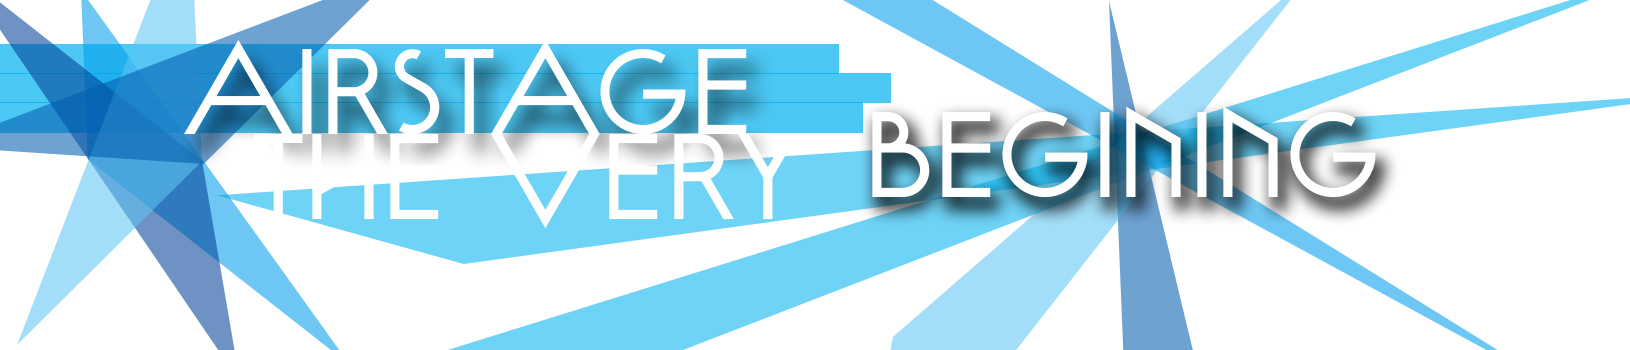
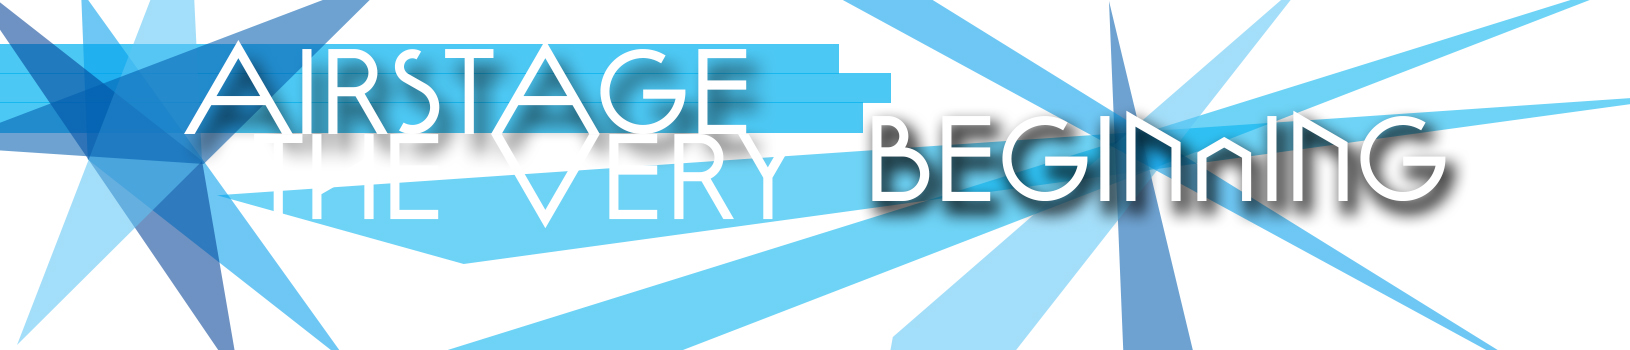
Modify the merge and add N

Changed region(s): [[0.5215, 0.3143, 0.9202, 0.6571]]

diff --git a/marketProject/marketNavi.php b/marketProject/marketNavi.php
@@ -1,4 +1,3 @@
-<<<<<<< HEAD
 <!-- Navigation Bar -->
 <div class="navbar navbar-inverse navbar-fixed-top">
   <div class="navbar-inner">
@@ -31,51 +30,4 @@
     </div>
   </div>
 </div>
-<?php
-	//require_once( "../global/navi_white/navi.php" );
-=======
-<!-- Navigation Bar -->
-<div class="navbar  navbar-fixed-top">
-  <div class="navbar-inner">
-    <div class="container">
-      <button type="button" class="btn btn-navbar" data-toggle="collapse" data-target=".nav-collapse">
-        <span class="icon-bar"></span>
-        <span class="icon-bar"></span>
-        <span class="icon-bar"></span>
-      </button>
-      <a class="brand" href="../index.php">Airstage</a>
-      <div class="nav-collapse collapse">
-        <ul class="nav">
-        	<li class="">
-            	<a href="../index.php">活動牆</a>
-            </li>
-            <li class="active">
-            	<a href="marketIndex.php">學生市集</a>
-            </li>
-            <li class="">
-            	<a href="../accounts/revises.php">會員中心</a>         
-            </li>
-            <li class="">
-            	<a href="">校園專欄</a>
-            </li>
-            <li class="">
-            	<a href="">影音聯播</a>
-            </li>      
-            <?php
-        		if( $_SESSION['auth'] == 2 ) {
-            ?>
-            <li class="">
-            	<a href="../accounts/managerInterface.php">會員管理者介面</a>
-            </li>
-            <?php
-        		}
-            ?>                 
-        </ul>
-      </div>
-    </div>
-  </div>
-</div>
-<?php
-	//require_once( "../global/navi_white/navi.php" );
->>>>>>> 8196fc654633f729663dc150d634f0eef8af1a58
-?>
+

diff --git a/marketProject/marketAnnouce.php b/marketProject/marketAnnouce.php
@@ -10,21 +10,21 @@
             <div class="item active">
                 <img src="img/Banner1.jpg" alt="">
                 <div class="carousel-caption">
-                    <h4>1 # The Very Begining of the AIRSTAGE STUDENT MARKET</h4>
+                    <h4>1 # The Very Beginning of the AIRSTAGE STUDENT MARKET</h4>
                     <!--p>Enjoy Your Air Life.</p-->
                 </div>
             </div>
             <div class="item">
                 <img src="img/Banner1.jpg" alt="">
                 <div class="carousel-caption">
-                    <h4>2 # The Very Begining of the AIRSTAGE STUDENT MARKET</h4>
+                    <h4>2 # The Very Beginning of the AIRSTAGE STUDENT MARKET</h4>
                     <!--p>Enjoy Your Air Life.</p-->
                 </div>
             </div>
             <div class="item">
                 <img src="img/Banner1.jpg" alt="">
                 <div class="carousel-caption">
-                    <h4>3 # The Very Begining of the AIRSTAGE STUDENT MARKET</h4>
+                    <h4>3 # The Very Beginning of the AIRSTAGE STUDENT MARKET</h4>
                     <!--p>Enjoy Your Air Life.</p-->
                 </div>
             </div>      

diff --git a/marketProject/sellerInterface.php b/marketProject/sellerInterface.php
@@ -54,11 +54,6 @@
 	<link href="css/docs.css" rel="stylesheet">
 	<meta http-equiv = "Content-Type" content = "text/html; charset = utf8" />
 	<meta http-equiv = "Content-Language" content = "zh-tw" />
-<<<<<<< HEAD
-	<script language="javascript" type="text/javascript" src="http://code.jquery.com/jquery-latest.min.js"></script>
-	<script type="text/javascript" language="javascript">var app = "market";</script>
-=======
->>>>>>> 8196fc654633f729663dc150d634f0eef8af1a58
 	<style>
 		h3, h2, h1, table, tr, td, li, ul, th {
 			font-family: "微軟正黑體", "Arial";
